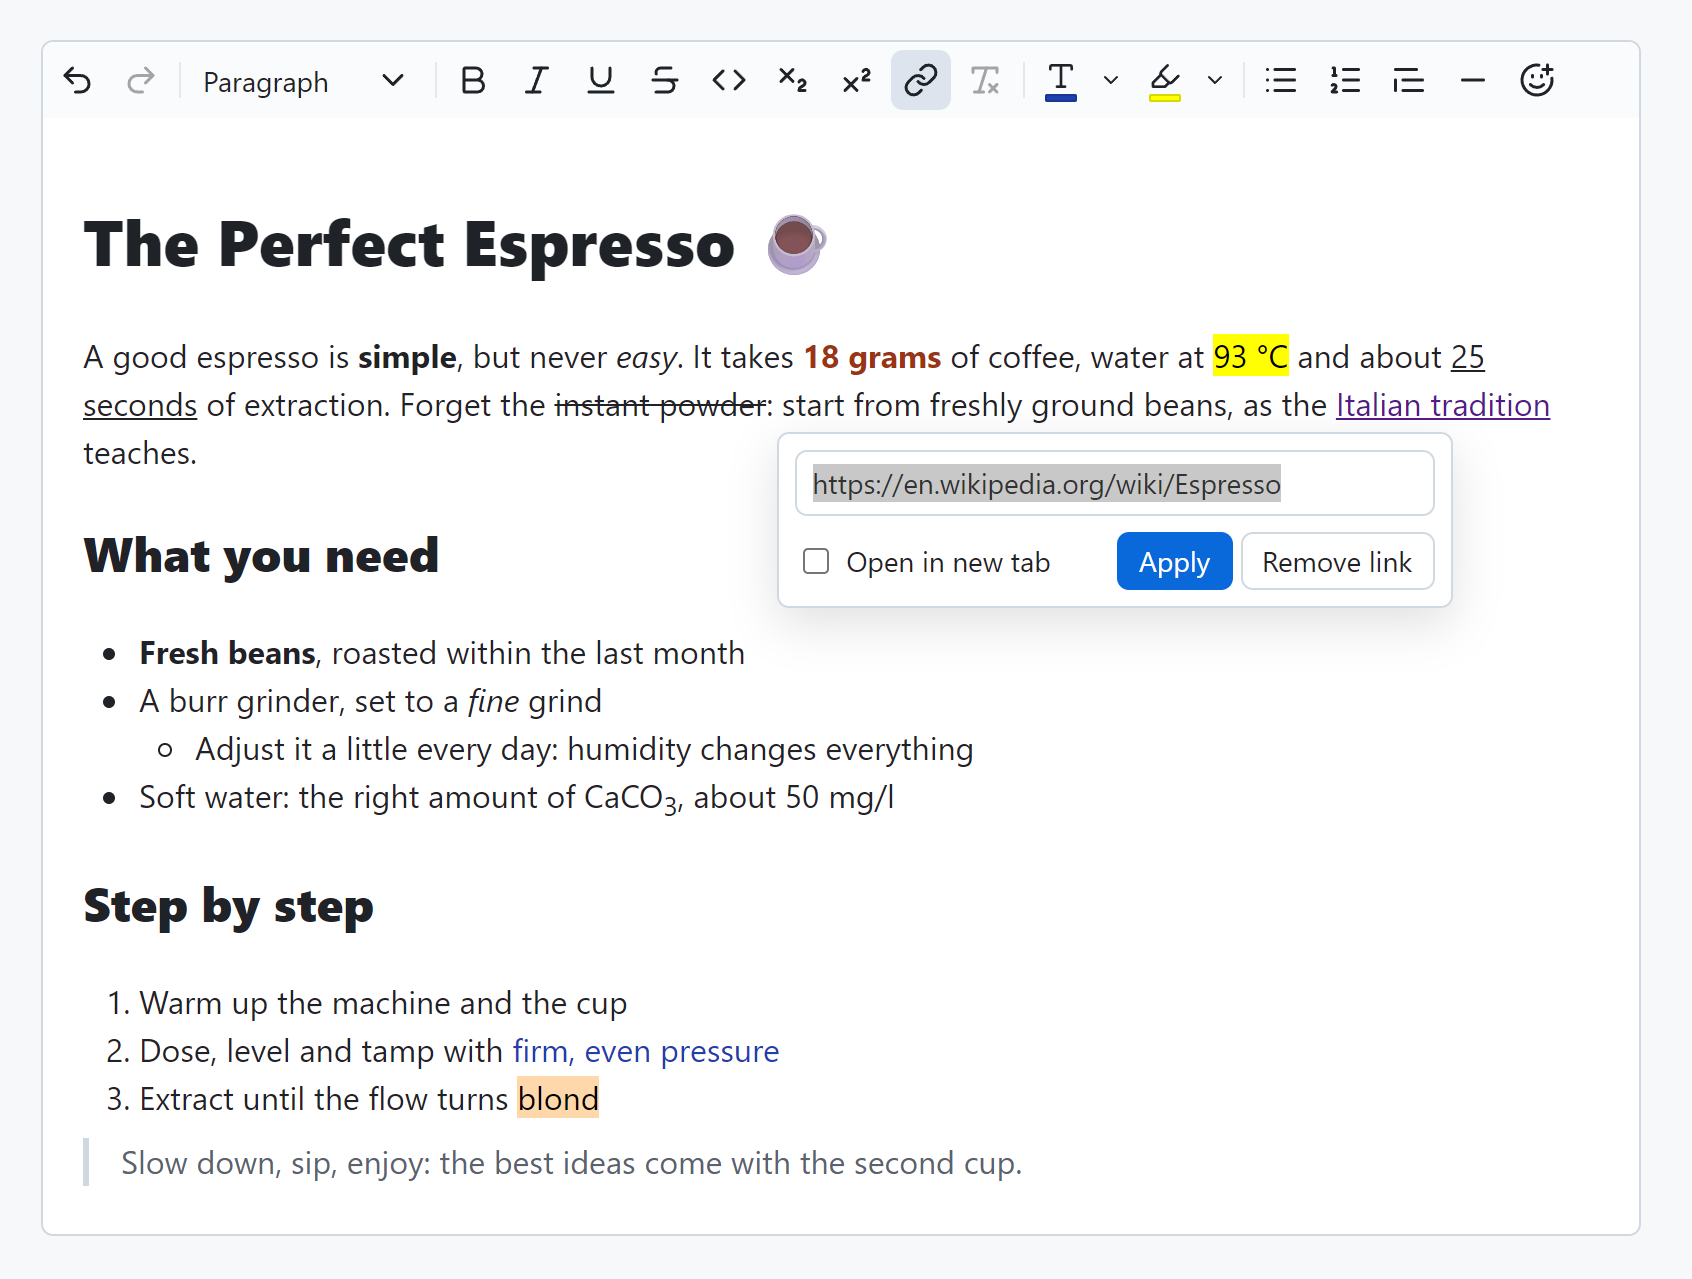
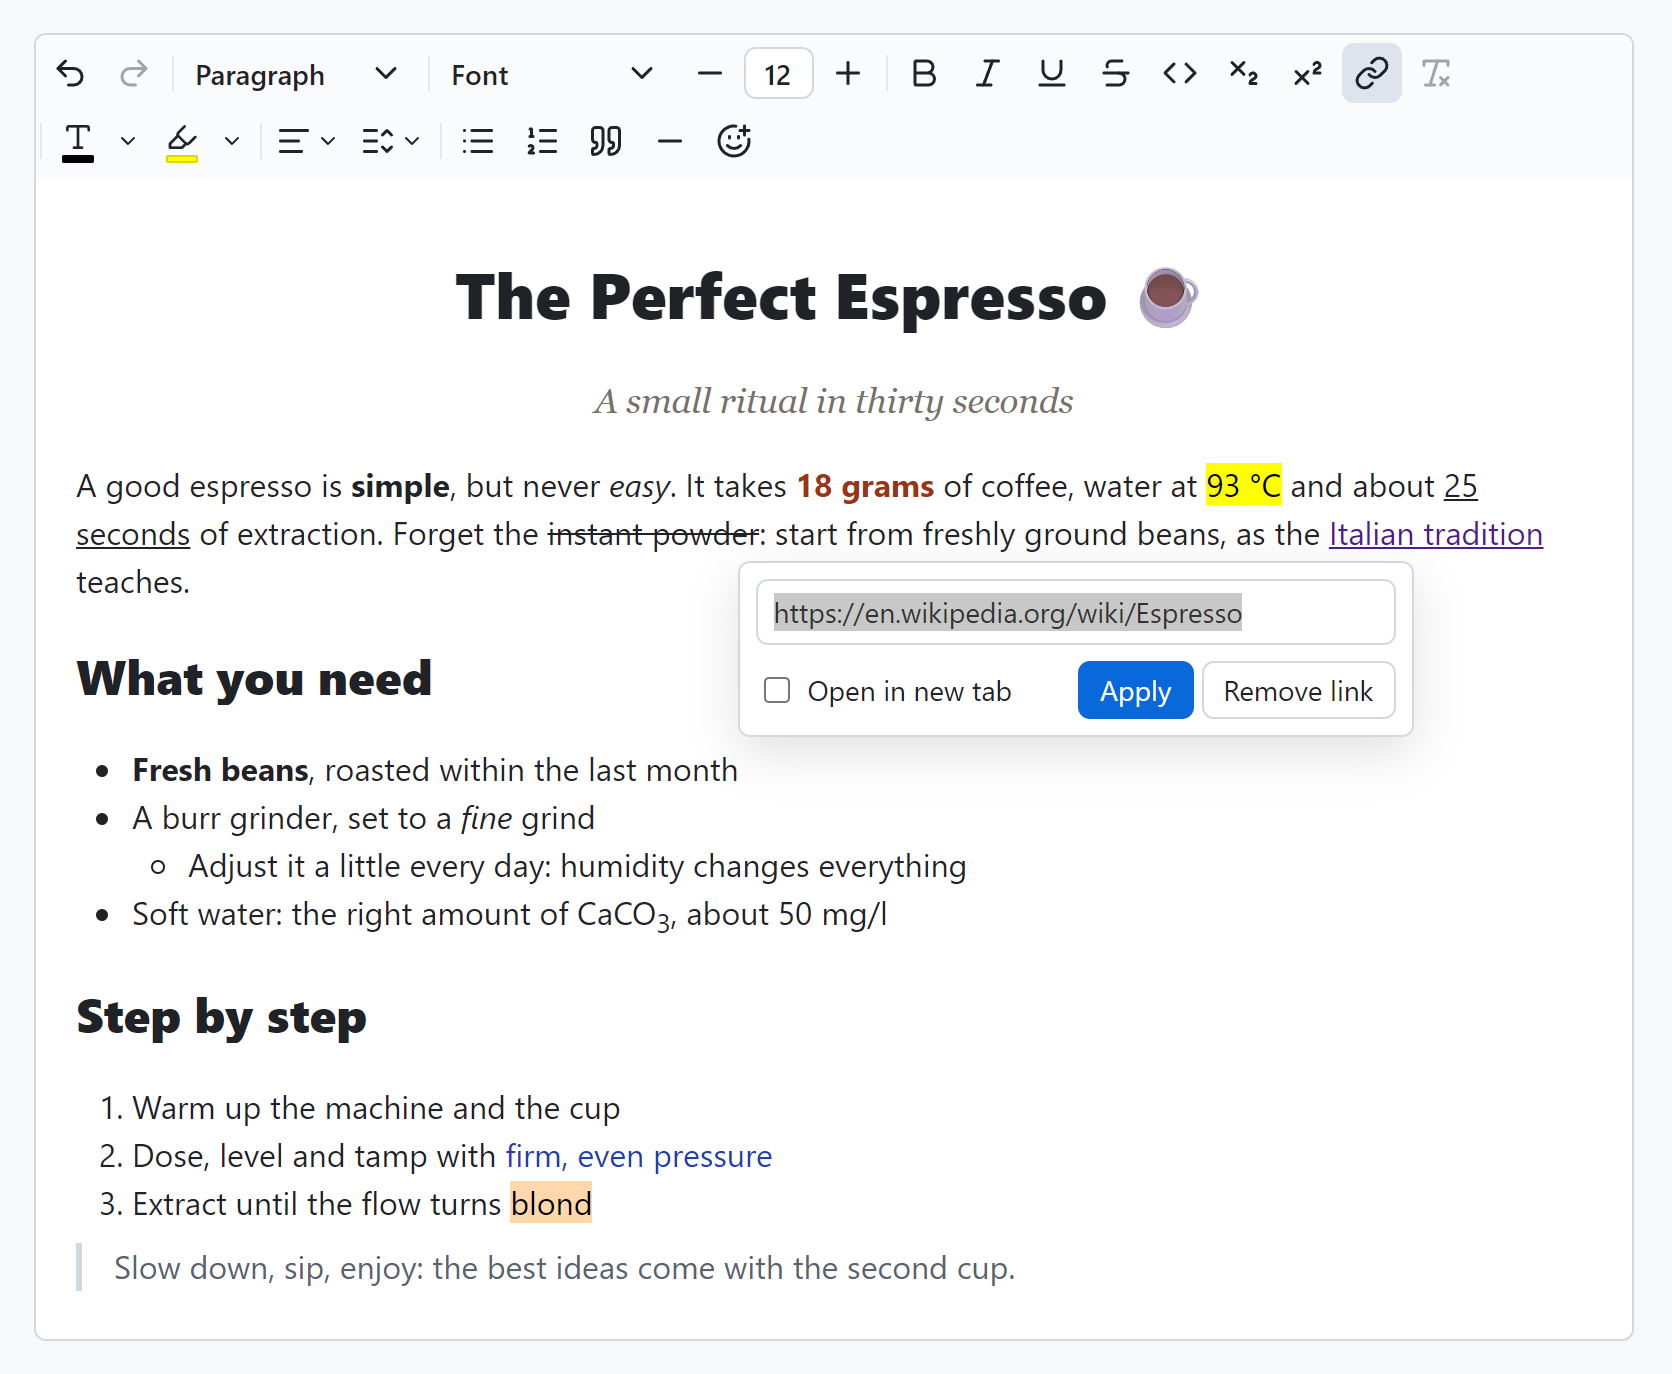
docs(readme): new screenshots with the complete toolbar
- screenshot.png: the espresso page with the toolbar as it is today
  (alignment, line spacing, quote icon, semibold dropdown values) and
  the link popover open.
- screenshot2.png and screenshot3.png, side by side under the Features
  table: the font dropdown on a text in Times New Roman, and the
  highlight palette with the Default marker, which keeps the browser's
  own highlight available next to the colors.

diff --git a/README.md b/README.md
@@ -86,6 +86,17 @@ column is what you type to get the format as you write.
 | Redo | <kbd>Ctrl</kbd>+<kbd>Shift</kbd>+<kbd>Z</kbd> or <kbd>Ctrl</kbd>+<kbd>Y</kbd> | | |
 | Paste | <kbd>Ctrl</kbd>+<kbd>V</kbd> | | HTML is cleaned up; plain text lines become paragraphs |
 
+<table>
+  <tr>
+    <td width="50%"><img src="https://raw.githubusercontent.com/kojak8791/stilo-editor/main/assets/screenshot2.png" alt="The font dropdown on a Times New Roman text, with lines in Georgia, Trebuchet MS, Verdana, Courier New and the generic families" width="400"></td>
+    <td width="50%"><img src="https://raw.githubusercontent.com/kojak8791/stilo-editor/main/assets/screenshot3.png" alt="The highlight palette open, with No color, Default, the color grid and a custom color field" width="400"></td>
+  </tr>
+  <tr>
+    <td>Fonts and sizes: the toolbar shows the font and the size at the cursor.</td>
+    <td>Highlight palette: the browser's default marker stays one click away, next to the colors.</td>
+  </tr>
+</table>
+
 **Keyboard and accessibility.** Most shortcuts are the ones of Google Docs; the others follow
 the usual conventions of web editors, and every toolbar tooltip shows its shortcut. The toolbar
 follows the WAI-ARIA *Toolbar* pattern: <kbd>Alt</kbd>+<kbd>F10</kbd> moves the focus from the
